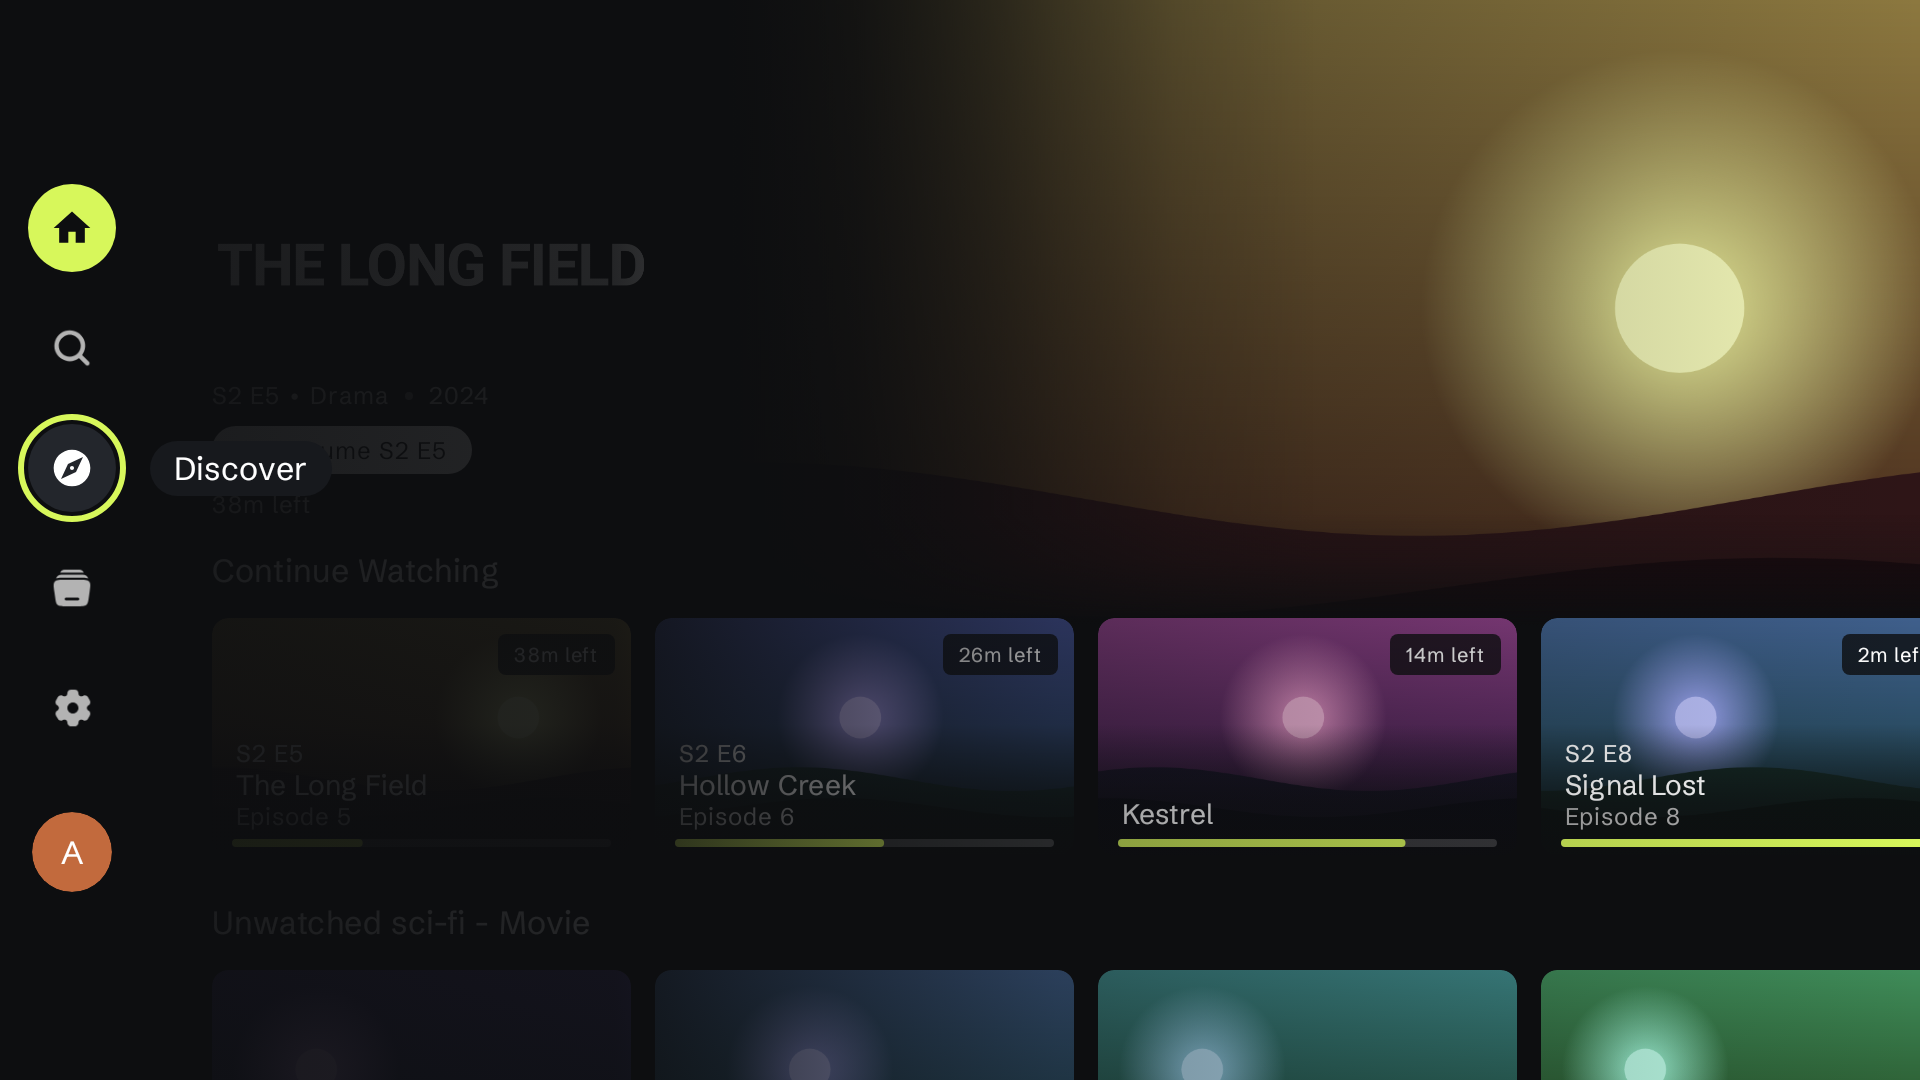
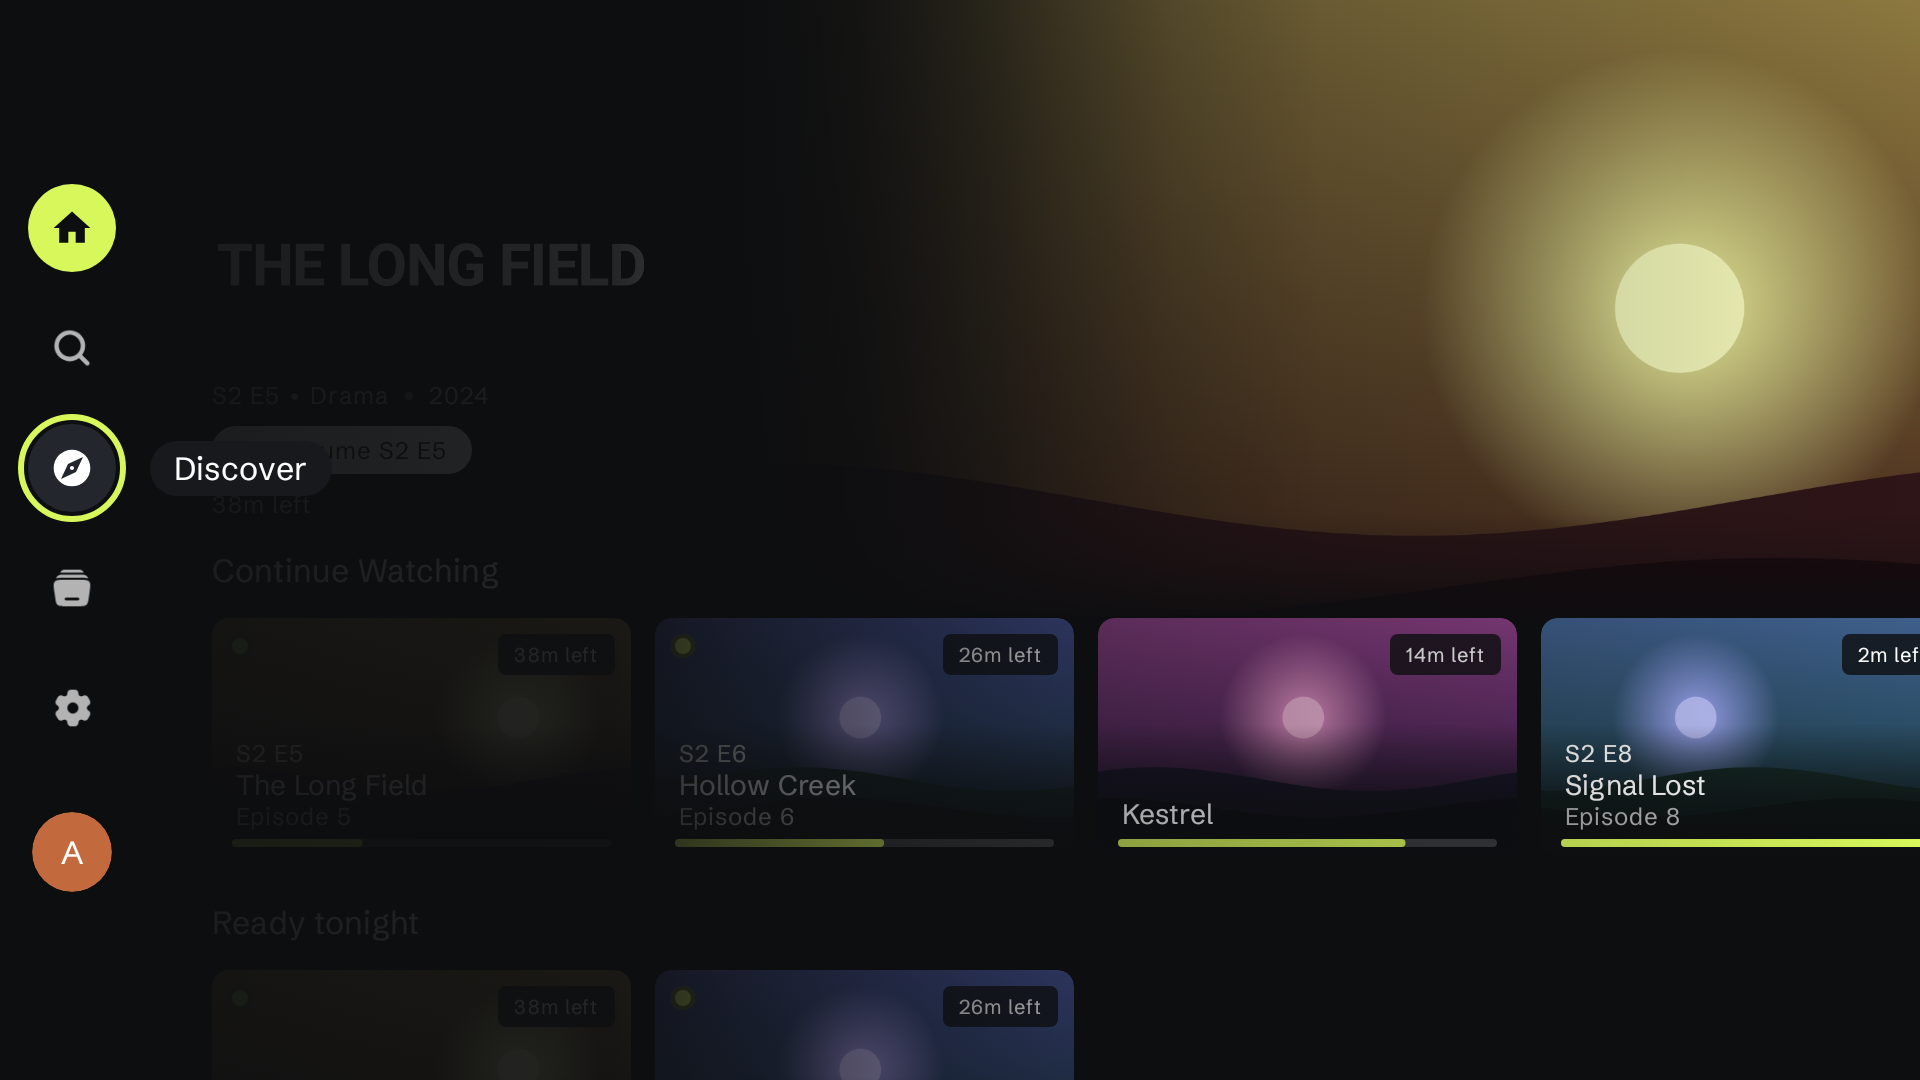
Add a background ready check and a Ready tonight row
While Home is on screen, on an unmetered network, Fetch asks addons
about up to 6 Continue Watching titles, one at a time, each at most
every 12 hours, through the same lookup the detail page's Play button
uses. It needs Best match and its preview on, and can be turned off in
Playback > Stream selection. Leaving Home cancels it, so it never runs
during playback.

Home shows a Ready tonight row after Continue Watching when at least two
titles are ready. New strings are translated in every locale.

Claude-Session: https://claude.ai/code/session_01Ha3w4BHa8kbYViNqMcb1DZ

Changed region(s): [[0.4688, 0.8861, 1.0, 1.0], [0.4062, 0.9472, 0.5, 1.0]]

diff --git a/app/src/main/java/com/fetch/tv/ui/screens/home/HomeReadyChecker.kt b/app/src/main/java/com/fetch/tv/ui/screens/home/HomeReadyChecker.kt
@@ -1,0 +1,88 @@
+package com.fetch.tv.ui.screens.home
+
+import android.content.Context
+import android.net.ConnectivityManager
+import com.fetch.tv.core.profile.ProfileManager
+import com.fetch.tv.core.streams.BestMatchPreviewer
+import com.fetch.tv.data.local.BestMatchCacheDataStore
+import com.fetch.tv.data.local.PlayerSettingsDataStore
+import com.fetch.tv.data.local.StreamAutoPlayMode
+import dagger.hilt.android.qualifiers.ApplicationContext
+import kotlinx.coroutines.TimeoutCancellationException
+import kotlinx.coroutines.flow.first
+import kotlinx.coroutines.sync.Mutex
+import kotlinx.coroutines.withTimeout
+import java.util.concurrent.ConcurrentHashMap
+import javax.inject.Inject
+import javax.inject.Singleton
+
+/**
+ * Asks addons in the background about a few Continue Watching titles so Home can mark the ones
+ * that will start instantly. It runs only while Home is on screen, on an unmetered network, with
+ * Best match and its preview on, one title at a time. Each lookup saves its pick through
+ * [BestMatchPreviewer], which is what the ready dot and "Ready tonight" read.
+ */
+@Singleton
+class HomeReadyChecker @Inject constructor(
+    @ApplicationContext private val context: Context,
+    private val previewer: BestMatchPreviewer,
+    private val playerSettingsDataStore: PlayerSettingsDataStore,
+    private val bestMatchCacheDataStore: BestMatchCacheDataStore,
+    private val profileManager: ProfileManager
+) {
+    /** When each "profile|key" was last asked about, found or not. Kept for the app's lifetime. */
+    private val lastAttemptMs = ConcurrentHashMap<String, Long>()
+    private val running = Mutex()
+
+    internal suspend fun check(items: List<ContinueWatchingItem>) {
+        if (items.isEmpty() || !running.tryLock()) return
+        try {
+            val settings = playerSettingsDataStore.playerSettings.first()
+            if (!settings.readyCheckEnabled || !settings.bestMatchPreviewEnabled) return
+            if (settings.streamAutoPlayMode != StreamAutoPlayMode.BEST_MATCH) return
+            if (!isUnmetered()) return
+
+            val profilePrefix = "${profileManager.activeProfileId.value}|"
+            val attempts = lastAttemptMs
+                .filterKeys { it.startsWith(profilePrefix) }
+                .mapKeys { (key, _) -> key.removePrefix(profilePrefix) }
+            val requests = readyCheckCandidates(
+                items = items,
+                entries = bestMatchCacheDataStore.entries.first(),
+                lastAttemptMs = attempts,
+                nowMs = System.currentTimeMillis()
+            )
+            for (request in requests) {
+                if (!isUnmetered()) return
+                try {
+                    withTimeout(LOOKUP_TIMEOUT_MS) {
+                        previewer.preview(
+                            type = request.type,
+                            videoId = request.videoId,
+                            season = request.season,
+                            episode = request.episode,
+                            contentId = request.contentId
+                        ).collect { }
+                    }
+                } catch (_: TimeoutCancellationException) {
+                    // Counted as an attempt below: a slow addon shouldn't be asked again at once.
+                } catch (error: Exception) {
+                    if (error is kotlinx.coroutines.CancellationException) throw error
+                }
+                // Recorded only once a lookup ends, so leaving Home mid-lookup doesn't skip the title.
+                lastAttemptMs[profilePrefix + request.key] = System.currentTimeMillis()
+            }
+        } finally {
+            running.unlock()
+        }
+    }
+
+    private fun isUnmetered(): Boolean {
+        val connectivity = context.getSystemService(ConnectivityManager::class.java) ?: return false
+        return connectivity.activeNetwork != null && !connectivity.isActiveNetworkMetered
+    }
+
+    private companion object {
+        const val LOOKUP_TIMEOUT_MS = 60_000L
+    }
+}

diff --git a/app/src/main/java/com/fetch/tv/data/local/PlayerSettingsDataStore.kt b/app/src/main/java/com/fetch/tv/data/local/PlayerSettingsDataStore.kt
@@ -327,6 +327,11 @@ data class PlayerSettings(
     val streamReuseLastLinkEnabled: Boolean = true,
     /** Look up the Best match pick on detail pages so the Play button can name it. */
     val bestMatchPreviewEnabled: Boolean = true,
+    /**
+     * Ask addons in the background about a few Continue Watching titles, on unmetered networks,
+     * so Home can mark the ones that will start instantly.
+     */
+    val readyCheckEnabled: Boolean = true,
     val streamReuseLastLinkCacheHours: Int = 1,
     val externalPlayerForwardSubtitles: Boolean = false,
     val externalPlayerSendSkipSegments: Boolean = false,
@@ -601,6 +606,7 @@ class PlayerSettingsDataStore @Inject constructor(
     private val nextEpisodeThresholdMinutesBeforeEndKey = floatPreferencesKey("next_episode_threshold_minutes_before_end_v2")
     private val streamReuseLastLinkEnabledKey = booleanPreferencesKey("stream_reuse_last_link_enabled")
     private val bestMatchPreviewEnabledKey = booleanPreferencesKey("best_match_preview_enabled")
+    private val readyCheckEnabledKey = booleanPreferencesKey("ready_check_enabled")
     private val streamReuseLastLinkCacheHoursKey = intPreferencesKey("stream_reuse_last_link_cache_hours")
     private val externalPlayerForwardSubtitlesKey = booleanPreferencesKey("external_player_forward_subtitles")
     private val externalPlayerSendSkipSegmentsKey = booleanPreferencesKey("external_player_send_skip_segments")
@@ -1025,6 +1031,7 @@ class PlayerSettingsDataStore @Inject constructor(
                 ),
                 streamReuseLastLinkEnabled = prefs[streamReuseLastLinkEnabledKey] ?: false,
                 bestMatchPreviewEnabled = prefs[bestMatchPreviewEnabledKey] ?: true,
+                readyCheckEnabled = prefs[readyCheckEnabledKey] ?: true,
                 streamReuseLastLinkCacheHours = (prefs[streamReuseLastLinkCacheHoursKey] ?: 24).coerceIn(1, 168),
                 externalPlayerForwardSubtitles = prefs[externalPlayerForwardSubtitlesKey] ?: false,
                 externalPlayerSendSkipSegments = prefs[externalPlayerSendSkipSegmentsKey] ?: false,
@@ -1468,6 +1475,12 @@ class PlayerSettingsDataStore @Inject constructor(
     suspend fun setBestMatchPreviewEnabled(enabled: Boolean) {
         store().edit { prefs ->
             prefs[bestMatchPreviewEnabledKey] = enabled
+        }
+    }
+
+    suspend fun setReadyCheckEnabled(enabled: Boolean) {
+        store().edit { prefs ->
+            prefs[readyCheckEnabledKey] = enabled
         }
     }
 

diff --git a/app/src/main/java/com/fetch/tv/ui/screens/home/HomeViewModelPresentationPipeline.kt b/app/src/main/java/com/fetch/tv/ui/screens/home/HomeViewModelPresentationPipeline.kt
@@ -20,6 +20,7 @@ import kotlinx.coroutines.Dispatchers
 import kotlinx.coroutines.FlowPreview
 import kotlinx.coroutines.async
 import kotlinx.coroutines.delay
+import kotlinx.coroutines.flow.onStart
 import kotlinx.coroutines.flow.collectLatest
 import kotlinx.coroutines.flow.combine
 import kotlinx.coroutines.flow.debounce
@@ -288,13 +289,20 @@ internal fun HomeViewModel.observeModernHomePresentationPipeline() {
             }
             .distinctUntilChanged()
 
-        combine(uiState, _currentLocaleTag, posterOverlay) { state, localeTag, overlay ->
+        // The cache only emits once read; start empty so Home never waits on it.
+        val bestMatches = bestMatchCacheDataStore.entries.onStart { emit(emptyMap()) }
+
+        combine(uiState, _currentLocaleTag, posterOverlay, bestMatches) { state, localeTag, overlay, entries ->
                 ModernHomePresentationInput(
                     homeRows = state.homeRows,
                     catalogRows = state.catalogRows,
                     becauseYouWatchedRows = state.becauseYouWatchedRows,
                     continueWatchingItems = overlay.continueWatchingItems,
                     upcomingItems = overlay.upcomingItems,
+                    readyTonightItems = readyTonightItems(
+                        overlay.continueWatchingItems,
+                        readyBestMatchKeys(entries, System.currentTimeMillis())
+                    ),
                     useLandscapePosters = state.modernLandscapePostersEnabled,
                     showCatalogTypeSuffix = state.catalogTypeSuffixEnabled,
                     showFullReleaseDate = state.showFullReleaseDate,
@@ -312,6 +320,7 @@ internal fun HomeViewModel.observeModernHomePresentationPipeline() {
                     && old.becauseYouWatchedRows == new.becauseYouWatchedRows
                     && old.continueWatchingItems == new.continueWatchingItems
                     && old.upcomingItems == new.upcomingItems
+                    && old.readyTonightItems == new.readyTonightItems
                     && old.useLandscapePosters == new.useLandscapePosters
                     && old.showCatalogTypeSuffix == new.showCatalogTypeSuffix
                     && old.showFullReleaseDate == new.showFullReleaseDate

diff --git a/app/src/main/java/com/fetch/tv/ui/screens/home/ModernHomePresentation.kt b/app/src/main/java/com/fetch/tv/ui/screens/home/ModernHomePresentation.kt
@@ -20,6 +20,8 @@ internal data class ModernHomePresentationInput(
     val becauseYouWatchedRows: List<CatalogRow> = emptyList(),
     val continueWatchingItems: List<ContinueWatchingItem>,
     val upcomingItems: List<ContinueWatchingItem>,
+    /** Continue Watching items whose Best match is ready; see [readyTonightItems]. */
+    val readyTonightItems: List<ContinueWatchingItem> = emptyList(),
     val useLandscapePosters: Boolean,
     val showCatalogTypeSuffix: Boolean,
     val showFullReleaseDate: Boolean,
@@ -89,6 +91,29 @@ internal fun buildModernHomePresentation(
         } else {
             cache.continueWatchingItems = emptyList()
             cache.continueWatchingRow = null
+        }
+
+        // Ready tonight: titles that will start instantly. A single one would only repeat a card
+        // from the row above, so the row needs at least two.
+        if (input.readyTonightItems.size >= READY_TONIGHT_MIN_ITEMS) {
+            add(
+                HeroCarouselRow(
+                    key = MODERN_READY_TONIGHT_ROW_KEY,
+                    title = localizedContext.getString(R.string.home_row_ready_tonight),
+                    globalRowIndex = -1,
+                    items = input.readyTonightItems.map { item ->
+                        buildContinueWatchingItem(
+                            item = item,
+                            useLandscapePosters = input.useLandscapePosters,
+                            showImdbRatings = input.showImdbRatings,
+                            detailImdbRatingsVisibility = input.detailImdbRatingsVisibility,
+                            airsDateTemplate = strAirsDate,
+                            upcomingLabel = strUpcoming,
+                            context = localizedContext
+                        )
+                    }.asStable()
+                )
+            )
         }
 
         // Upcoming row (SPLIT_UPCOMING mode)

diff --git a/app/src/test/java/com/fetch/tv/screenshots/ReadmeScreenshots.kt b/app/src/test/java/com/fetch/tv/screenshots/ReadmeScreenshots.kt
@@ -1,5 +1,8 @@
 package com.fetch.tv.screenshots
 
+import com.fetch.tv.ui.screens.home.bestMatchKey
+import com.fetch.tv.ui.screens.home.LocalReadyBestMatchKeys
+import androidx.compose.runtime.CompositionLocalProvider
 import android.graphics.Bitmap
 import android.graphics.Canvas
 import androidx.activity.ComponentActivity
@@ -152,6 +155,9 @@ class ReadmeScreenshots {
         val context = LocalContext.current
         val rows = Samples.catalogRows
         val cw = Samples.continueWatching
+        // The first two titles have a cached Best match: they get the ready dot and "Ready tonight".
+        val ready = cw.take(2)
+        val readyKeys = ready.mapNotNull { it.bestMatchKey() }.toSet()
         val presentation = remember {
             buildModernHomePresentation(
                 input = ModernHomePresentationInput(
@@ -159,6 +165,7 @@ class ReadmeScreenshots {
                     catalogRows = rows,
                     continueWatchingItems = cw,
                     upcomingItems = emptyList(),
+                    readyTonightItems = ready,
                     useLandscapePosters = true,
                     showCatalogTypeSuffix = true,
                     showFullReleaseDate = false,
@@ -169,6 +176,7 @@ class ReadmeScreenshots {
                 context = context
             )
         }
+        CompositionLocalProvider(LocalReadyBestMatchKeys provides readyKeys) {
         Box(Modifier.fillMaxSize().background(FetchTheme.colors.Background)) {
             ModernHomeContent(
                 uiState = HomeUiState(
@@ -190,6 +198,7 @@ class ReadmeScreenshots {
                 onRemoveContinueWatching = { _, _, _, _ -> },
                 onSaveFocusState = { _, _, _, _, _, _, _, _ -> }
             )
+        }
         }
     }
 

diff --git a/app/src/main/java/com/fetch/tv/ui/screens/home/HomeViewModel.kt b/app/src/main/java/com/fetch/tv/ui/screens/home/HomeViewModel.kt
@@ -93,6 +93,7 @@ class HomeViewModel @Inject constructor(
     internal val bestMatchCacheDataStore: com.fetch.tv.data.local.BestMatchCacheDataStore,
     internal val episodeQueueStore: com.fetch.tv.data.local.EpisodeQueueStore,
     internal val becauseYouWatchedService: com.fetch.tv.core.recommendations.BecauseYouWatchedService,
+    internal val readyChecker: HomeReadyChecker,
     internal val metaPreviewEnricher: MetaPreviewEnricher = MetaPreviewEnricher(
         tmdbService,
         tmdbMetadataService,
@@ -129,6 +130,9 @@ class HomeViewModel @Inject constructor(
     internal val _uiState = MutableStateFlow(HomeUiState())
     internal val shuffleHomeRefresh = MutableStateFlow(HomeShuffleRefresh())
     val uiState: StateFlow<HomeUiState> by lazy { createShuffleHomeState() }
+
+    /** Background ready check for these Continue Watching items; see [HomeReadyChecker]. */
+    suspend fun runReadyCheck(items: List<ContinueWatchingItem>) = readyChecker.check(items)
 
     fun beginShuffleHomeVisit() {
         shuffleHomeRefresh.update { it.copy(visit = it.visit + 1) }

diff --git a/app/src/main/java/com/fetch/tv/ui/screens/home/HomeViewModelMdbListBatchPrefetch.kt b/app/src/main/java/com/fetch/tv/ui/screens/home/HomeViewModelMdbListBatchPrefetch.kt
@@ -38,9 +38,7 @@ internal fun HomeViewModel.onCatalogRowItemsChanged(rowKey: String) {
 }
 
 private suspend fun HomeViewModel.batchFetchRatingsForRowAndNext(focusedRowKey: String) {
-    if (focusedRowKey == MODERN_CONTINUE_WATCHING_ROW_KEY ||
-        focusedRowKey == MODERN_UPCOMING_ROW_KEY
-    ) return
+    if (isContinueWatchingStyleRow(focusedRowKey)) return
 
     val allRows = _modernHomePresentation.value.rows.list
     val focusedIdx = allRows.indexOfFirst { it.key == focusedRowKey }
@@ -49,9 +47,7 @@ private suspend fun HomeViewModel.batchFetchRatingsForRowAndNext(focusedRowKey: 
     val targetRowKeys = mutableListOf(focusedRowKey)
     for (i in (focusedIdx + 1) until allRows.size) {
         val nextRow = allRows[i]
-        if (nextRow.key != MODERN_CONTINUE_WATCHING_ROW_KEY &&
-            nextRow.key != MODERN_UPCOMING_ROW_KEY
-        ) {
+        if (!isContinueWatchingStyleRow(nextRow.key)) {
             targetRowKeys.add(nextRow.key)
             break
         }

diff --git a/app/src/main/java/com/fetch/tv/ui/screens/settings/PlaybackAutoPlaySettings.kt b/app/src/main/java/com/fetch/tv/ui/screens/settings/PlaybackAutoPlaySettings.kt
@@ -100,6 +100,15 @@ internal fun PlaybackStreamSelectionSection(
             checked = settings.bestMatchPreviewEnabled,
             onToggle = { onUpdate { setBestMatchPreviewEnabled(!settings.bestMatchPreviewEnabled) } }
         )
+        // The ready check runs the same lookup, so it only applies while the preview is on.
+        if (settings.bestMatchPreviewEnabled) {
+            SettingsToggleRow(
+                title = stringResource(R.string.ready_check_title),
+                subtitle = stringResource(R.string.ready_check_sub),
+                checked = settings.readyCheckEnabled,
+                onToggle = { onUpdate { setReadyCheckEnabled(!settings.readyCheckEnabled) } }
+            )
+        }
     }
 
     if (settings.streamAutoPlayMode == StreamAutoPlayMode.REGEX_MATCH) {

diff --git a/app/src/test/java/com/fetch/tv/ui/screens/home/HomeEnrichmentRetryTest.kt b/app/src/test/java/com/fetch/tv/ui/screens/home/HomeEnrichmentRetryTest.kt
@@ -470,7 +470,8 @@ class HomeEnrichmentRetryTest {
             parentalControls = com.fetch.tv.unrestrictedParentalControls(),
             bestMatchCacheDataStore = mockk(relaxed = true),
             episodeQueueStore = mockk(relaxed = true),
-            becauseYouWatchedService = mockk(relaxed = true)
+            becauseYouWatchedService = mockk(relaxed = true),
+            readyChecker = mockk(relaxed = true)
         )
         // The pipeline defers everything while the startup grace period is active, and TMDB is
         // switched off so the external addon is the only enrichment source under test.

diff --git a/app/src/test/java/com/fetch/tv/ui/screens/home/HomeEnrichmentRepositoryBoundaryTest.kt b/app/src/test/java/com/fetch/tv/ui/screens/home/HomeEnrichmentRepositoryBoundaryTest.kt
@@ -205,7 +205,8 @@ class HomeEnrichmentRepositoryBoundaryTest {
             parentalControls = com.fetch.tv.unrestrictedParentalControls(),
             bestMatchCacheDataStore = mockk(relaxed = true),
             episodeQueueStore = mockk(relaxed = true),
-            becauseYouWatchedService = mockk(relaxed = true)
+            becauseYouWatchedService = mockk(relaxed = true),
+            readyChecker = mockk(relaxed = true)
         )
         viewModel.startupGracePeriodActive = false
         viewModel.externalMetaPrefetchEnabled = true

diff --git a/app/src/main/java/com/fetch/tv/ui/screens/settings/PlaybackSettingsViewModel.kt b/app/src/main/java/com/fetch/tv/ui/screens/settings/PlaybackSettingsViewModel.kt
@@ -557,6 +557,10 @@ class PlaybackSettingsViewModel @Inject constructor(
         playerSettingsDataStore.setBestMatchPreviewEnabled(enabled)
     }
 
+    suspend fun setReadyCheckEnabled(enabled: Boolean) {
+        playerSettingsDataStore.setReadyCheckEnabled(enabled)
+    }
+
     suspend fun setStreamReuseLastLinkCacheHours(hours: Int) {
         playerSettingsDataStore.setStreamReuseLastLinkCacheHours(hours)
     }
